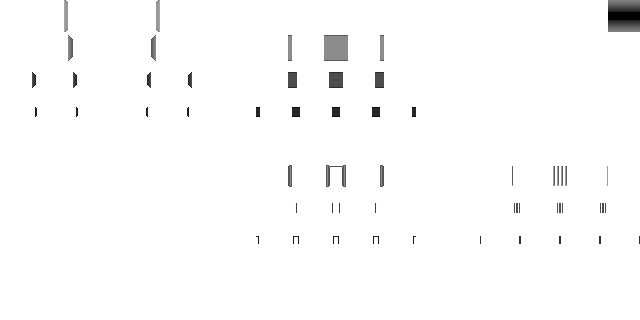
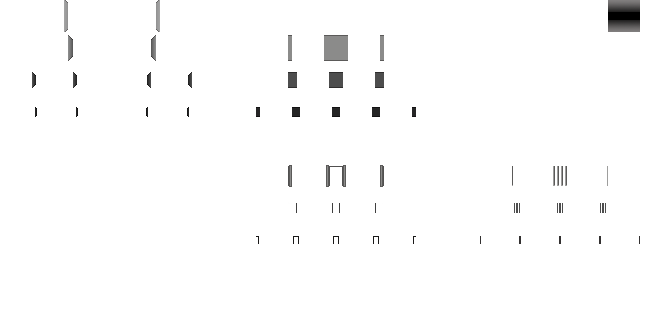
Doors fully working!

diff --git a/LowRezJam/app.js b/LowRezJam/app.js
@@ -29,8 +29,13 @@ var LowRezJam;
             crawlergame.cursor.y = Math.floor(this.game.input.mousePointer.y / (crawlergame.game.width / 32)) * (crawlergame.game.width / 32);
             crawlergame.cursor.z = -9999;
 
+            for (var d = 0; d < crawlergame.dungeon.Doors.length; d++) {
+                crawlergame.dungeon.Doors[d].Update(time);
+            }
+
             for (var i = 0; i < crawlergame.images.length; i++) {
                 crawlergame.images[i].frame = LowRezJam.Helper.getFrame(this.game, 0, 0);
+                crawlergame.images[i].scale.set(crawlergame.game.width / 32);
                 crawlergame.images[i].crop(new Phaser.Rectangle(0, 0, 32, 32));
             }
 
@@ -64,8 +69,11 @@ var LowRezJam;
                             crawlergame.images[imageNum].frame = LowRezJam.Helper.getFrame(this.game, 10 - l, f + 4);
                             imageNum++;
                             for (var d = 0; d < crawlergame.dungeon.Doors.length; d++) {
-                                if (crawlergame.dungeon.Doors[d].Position.X == loc.X && crawlergame.dungeon.Doors[d].Position.Y == loc.Y && crawlergame.dungeon.Doors[d].Open == false) {
-                                    crawlergame.images[imageNum].frame = LowRezJam.Helper.getFrame(this.game, 17 - l, f + 4);
+                                if (crawlergame.dungeon.Doors[d].Position.X == loc.X && crawlergame.dungeon.Doors[d].Position.Y == loc.Y) {
+                                    //crawlergame.images[imageNum].frame = Helper.getFrame(this.game, 17 - l, f + 4);
+                                    crawlergame.images[imageNum].crop(new Phaser.Rectangle((17 - l) * 32, (f + 4) * 32, 32, 32 - crawlergame.dungeon.Doors[d].OpenAmount));
+
+                                    //crawlergame.images[imageNum].crop(new Phaser.Rectangle(0, 0, 32, 32 - crawlergame.dungeon.Doors[d].OpenAmount));
                                     imageNum++;
                                 }
                             }
@@ -89,8 +97,11 @@ var LowRezJam;
                             crawlergame.images[imageNum].frame = LowRezJam.Helper.getFrame(this.game, 10 + l, f + 4);
                             imageNum++;
                             for (var d = 0; d < crawlergame.dungeon.Doors.length; d++) {
-                                if (crawlergame.dungeon.Doors[d].Position.X == loc.X && crawlergame.dungeon.Doors[d].Position.Y == loc.Y && crawlergame.dungeon.Doors[d].Open == false) {
-                                    crawlergame.images[imageNum].frame = LowRezJam.Helper.getFrame(this.game, 17 + l, f + 4);
+                                if (crawlergame.dungeon.Doors[d].Position.X == loc.X && crawlergame.dungeon.Doors[d].Position.Y == loc.Y) {
+                                    //crawlergame.images[imageNum].frame = Helper.getFrame(this.game, 17 + l, f + 4);
+                                    crawlergame.images[imageNum].crop(new Phaser.Rectangle((17 + l) * 32, (f + 4) * 32, 32, 32 - crawlergame.dungeon.Doors[d].OpenAmount));
+
+                                    //crawlergame.images[imageNum].scale.set(crawlergame.game.width / 32, Math.floor(crawlergame.game.width / (32 + crawlergame.dungeon.Doors[d].OpenAmount*2)));
                                     imageNum++;
                                 }
                             }
@@ -132,6 +143,18 @@ var LowRezJam;
         };
 
         CrawlerGame.prototype.mouseDown = function (event) {
+            var clickPoint = new LowRezJam.Point(crawlergame.cursor.x / (crawlergame.game.width / 32), crawlergame.cursor.y / (crawlergame.game.width / 32));
+            for (var f = 1; f <= 3; f++) {
+                var l = 0;
+                var loc = new LowRezJam.Point(crawlergame.hero.Position.X + ((f * crawlergame.hero.Forward.X) + (l * crawlergame.hero.Left.X)), crawlergame.hero.Position.Y + ((f * crawlergame.hero.Forward.Y) + (l * crawlergame.hero.Left.Y)));
+
+                if (f == 1) {
+                    for (var d = 0; d < crawlergame.dungeon.Doors.length; d++) {
+                        if (crawlergame.dungeon.Doors[d].Position.X == loc.X && crawlergame.dungeon.Doors[d].Position.Y == loc.Y)
+                            crawlergame.dungeon.Doors[d].Clicked(clickPoint);
+                    }
+                }
+            }
         };
 
         CrawlerGame.prototype.Generate = function () {

diff --git a/LowRezJam/app.ts b/LowRezJam/app.ts
@@ -48,8 +48,15 @@ module LowRezJam {
             crawlergame.cursor.y = Math.floor(this.game.input.mousePointer.y / (crawlergame.game.width / 32)) * (crawlergame.game.width / 32);
             crawlergame.cursor.z = -9999;
 
+            // Update doors
+            for (var d = 0; d < crawlergame.dungeon.Doors.length; d++) {
+                crawlergame.dungeon.Doors[d].Update(time);
+            }
+
+            // Set up images
             for (var i = 0; i < crawlergame.images.length; i++) {
                 crawlergame.images[i].frame = LowRezJam.Helper.getFrame(this.game, 0, 0);
+                crawlergame.images[i].scale.set(crawlergame.game.width / 32);
                 crawlergame.images[i].crop(new Phaser.Rectangle(0, 0, 32, 32));
             }
 
@@ -84,8 +91,10 @@ module LowRezJam {
                             crawlergame.images[imageNum].frame = Helper.getFrame(this.game, 10 - l, f + 4);
                             imageNum++;
                             for (var d = 0;d<crawlergame.dungeon.Doors.length;d++) {
-                                if (crawlergame.dungeon.Doors[d].Position.X == loc.X && crawlergame.dungeon.Doors[d].Position.Y == loc.Y && crawlergame.dungeon.Doors[d].Open == false) {
-                                    crawlergame.images[imageNum].frame = Helper.getFrame(this.game, 17 - l, f + 4);
+                                if (crawlergame.dungeon.Doors[d].Position.X == loc.X && crawlergame.dungeon.Doors[d].Position.Y == loc.Y) {
+                                    //crawlergame.images[imageNum].frame = Helper.getFrame(this.game, 17 - l, f + 4);
+                                    crawlergame.images[imageNum].crop(new Phaser.Rectangle((17 - l) * 32, (f + 4) * 32, 32, 32 - crawlergame.dungeon.Doors[d].OpenAmount));
+                                   //crawlergame.images[imageNum].crop(new Phaser.Rectangle(0, 0, 32, 32 - crawlergame.dungeon.Doors[d].OpenAmount));
                                     imageNum++;
                                 }
                             }
@@ -111,8 +120,10 @@ module LowRezJam {
                             crawlergame.images[imageNum].frame = Helper.getFrame(this.game, 10 + l, f + 4);
                             imageNum++;
                             for (var d = 0; d < crawlergame.dungeon.Doors.length; d++) {
-                                if (crawlergame.dungeon.Doors[d].Position.X == loc.X && crawlergame.dungeon.Doors[d].Position.Y == loc.Y && crawlergame.dungeon.Doors[d].Open == false) {
-                                    crawlergame.images[imageNum].frame = Helper.getFrame(this.game, 17 + l, f + 4);
+                                if (crawlergame.dungeon.Doors[d].Position.X == loc.X && crawlergame.dungeon.Doors[d].Position.Y == loc.Y) {
+                                    //crawlergame.images[imageNum].frame = Helper.getFrame(this.game, 17 + l, f + 4);
+                                    crawlergame.images[imageNum].crop(new Phaser.Rectangle((17+l)*32, (f+4)*32, 32, 32 - crawlergame.dungeon.Doors[d].OpenAmount));
+                                    //crawlergame.images[imageNum].scale.set(crawlergame.game.width / 32, Math.floor(crawlergame.game.width / (32 + crawlergame.dungeon.Doors[d].OpenAmount*2)));
                                     imageNum++;
                                 }
                             }
@@ -156,7 +167,19 @@ module LowRezJam {
         }
 
         mouseDown(event) {
-            
+            var clickPoint = new Point(crawlergame.cursor.x / (crawlergame.game.width / 32), crawlergame.cursor.y / (crawlergame.game.width / 32));
+            for (var f = 1; f <= 3; f++) {
+                var l = 0;
+                var loc = new Point(crawlergame.hero.Position.X + ((f * crawlergame.hero.Forward.X) + (l * crawlergame.hero.Left.X)),
+                    crawlergame.hero.Position.Y + ((f * crawlergame.hero.Forward.Y) + (l * crawlergame.hero.Left.Y)));
+
+                if (f == 1) {
+                    for (var d = 0; d < crawlergame.dungeon.Doors.length; d++) {
+                        if (crawlergame.dungeon.Doors[d].Position.X == loc.X && crawlergame.dungeon.Doors[d].Position.Y == loc.Y)
+                            crawlergame.dungeon.Doors[d].Clicked(clickPoint);
+                    }
+                }
+            }
         }
 
         public Generate() {

diff --git a/LowRezJam/dungeon.js b/LowRezJam/dungeon.js
@@ -97,9 +97,22 @@
             }
 
             for (var i = 0; i < this.possibleDoorLocations.length; i++) {
-                if (this.rnd.integerInRange(0, 5) == 0) {
-                    this.Tiles[this.possibleDoorLocations[i].Y][this.possibleDoorLocations[i].X] = 3;
-                    this.Doors.push(new LowRezJam.Door(new LowRezJam.Point(this.possibleDoorLocations[i].X, this.possibleDoorLocations[i].Y)));
+                if (this.rnd.integerInRange(0, 4) == 0) {
+                    // Need to check surrounding tiles for walls as they may have changed since adding possible location
+                    // Two walls is number we're looking for!
+                    var count = 0;
+                    if (this.Tiles[this.possibleDoorLocations[i].Y - 1][this.possibleDoorLocations[i].X] == 2)
+                        count++;
+                    if (this.Tiles[this.possibleDoorLocations[i].Y + 1][this.possibleDoorLocations[i].X] == 2)
+                        count++;
+                    if (this.Tiles[this.possibleDoorLocations[i].Y][this.possibleDoorLocations[i].X - 1] == 2)
+                        count++;
+                    if (this.Tiles[this.possibleDoorLocations[i].Y][this.possibleDoorLocations[i].X + 1] == 2)
+                        count++;
+                    if (count == 2) {
+                        this.Tiles[this.possibleDoorLocations[i].Y][this.possibleDoorLocations[i].X] = 3;
+                        this.Doors.push(new LowRezJam.Door(new LowRezJam.Point(this.possibleDoorLocations[i].X, this.possibleDoorLocations[i].Y)));
+                    }
                 }
             }
 

diff --git a/LowRezJam/dungeon.ts b/LowRezJam/dungeon.ts
@@ -117,10 +117,20 @@
                 }
             }
 
+            // Make doors
             for (var i = 0; i < this.possibleDoorLocations.length; i++) {
-                if (this.rnd.integerInRange(0, 5) == 0) {
-                    this.Tiles[this.possibleDoorLocations[i].Y][this.possibleDoorLocations[i].X] = 3;
-                    this.Doors.push(new Door(new Point(this.possibleDoorLocations[i].X, this.possibleDoorLocations[i].Y)));
+                if (this.rnd.integerInRange(0, 4) == 0) {
+                    // Need to check surrounding tiles for walls as they may have changed since adding possible location
+                    // Two walls is number we're looking for!
+                    var count = 0;
+                    if (this.Tiles[this.possibleDoorLocations[i].Y - 1][this.possibleDoorLocations[i].X] == 2) count++;
+                    if (this.Tiles[this.possibleDoorLocations[i].Y + 1][this.possibleDoorLocations[i].X] == 2) count++;
+                    if (this.Tiles[this.possibleDoorLocations[i].Y][this.possibleDoorLocations[i].X - 1] == 2) count++;
+                    if (this.Tiles[this.possibleDoorLocations[i].Y][this.possibleDoorLocations[i].X + 1] == 2) count++;
+                    if (count == 2) {
+                        this.Tiles[this.possibleDoorLocations[i].Y][this.possibleDoorLocations[i].X] = 3;
+                        this.Doors.push(new Door(new Point(this.possibleDoorLocations[i].X, this.possibleDoorLocations[i].Y)));
+                    }
                 }
             }
 

diff --git a/LowRezJam/door.js b/LowRezJam/door.js
@@ -2,10 +2,42 @@
 (function (LowRezJam) {
     var Door = (function () {
         function Door(pos) {
+            this.opening = false;
+            this.closing = false;
             this.Position = pos;
             this.Open = false;
             this.OpenAmount = 0;
         }
+        Door.prototype.Update = function (time) {
+            if (this.opening) {
+                if (this.OpenAmount < 31)
+                    this.OpenAmount++;
+                else {
+                    this.Open = true;
+                    this.opening = false;
+                }
+            }
+
+            if (this.closing) {
+                if (this.OpenAmount > 0)
+                    this.OpenAmount--;
+                else {
+                    this.Open = false;
+                    this.closing = false;
+                }
+            }
+        };
+
+        Door.prototype.Clicked = function (pos) {
+            if (this.opening || this.closing)
+                return;
+
+            if (this.Open) {
+                this.closing = true;
+                this.Open = false;
+            } else
+                this.opening = true;
+        };
         return Door;
     })();
     LowRezJam.Door = Door;

diff --git a/LowRezJam/door.ts b/LowRezJam/door.ts
@@ -4,10 +4,41 @@
          public Open: boolean;
          public OpenAmount: number;
 
+         private opening = false;
+         private closing = false;
+
          constructor(pos: Point) {
              this.Position = pos;
              this.Open = false;
              this.OpenAmount = 0;
+         }
+
+         public Update(time) {
+             if (this.opening) {
+                 if (this.OpenAmount < 31) this.OpenAmount++;
+                 else {
+                     this.Open = true;
+                     this.opening = false;
+                 }
+             }
+
+             if (this.closing) {
+                 if (this.OpenAmount > 0) this.OpenAmount--;
+                 else {
+                     this.Open = false;
+                     this.closing = false;
+                 }
+             }
+         }
+
+         public Clicked(pos: Point) {
+             if (this.opening || this.closing) return;
+
+             if (this.Open) {
+                 this.closing = true;
+                 this.Open = false;
+             }
+             else this.opening = true;
          }
      }
  }

diff --git a/LowRezJam/hero.ts b/LowRezJam/hero.ts
@@ -41,8 +41,15 @@
 
         private TryMove(l: number, f: number) {
             var loc = this.GetLoc(l, f);
+
             if (this.dungeon.Tiles[loc.Y][loc.X] == 1)
                 this.Position = loc;
+
+            if (this.dungeon.Tiles[loc.Y][loc.X] == 3)
+                for (var d = 0; d < crawlergame.dungeon.Doors.length; d++)
+                    if (crawlergame.dungeon.Doors[d].Position.X == loc.X && crawlergame.dungeon.Doors[d].Position.Y == loc.Y && crawlergame.dungeon.Doors[d].Open)
+                        this.Position = loc;
+                        
         }
 
         private DoTurn(dir: number) {

diff --git a/LowRezJam/hero.js b/LowRezJam/hero.js
@@ -35,8 +35,14 @@
 
         Hero.prototype.TryMove = function (l, f) {
             var loc = this.GetLoc(l, f);
+
             if (this.dungeon.Tiles[loc.Y][loc.X] == 1)
                 this.Position = loc;
+
+            if (this.dungeon.Tiles[loc.Y][loc.X] == 3)
+                for (var d = 0; d < crawlergame.dungeon.Doors.length; d++)
+                    if (crawlergame.dungeon.Doors[d].Position.X == loc.X && crawlergame.dungeon.Doors[d].Position.Y == loc.Y && crawlergame.dungeon.Doors[d].Open)
+                        this.Position = loc;
         };
 
         Hero.prototype.DoTurn = function (dir) {

diff --git a/LowRezJam/helper.js b/LowRezJam/helper.js
@@ -4,7 +4,7 @@
         function Helper() {
         }
         Helper.getFrame = function (game, x, y) {
-            return (20 * y) + x;
+            return (21 * y) + x;
         };
         return Helper;
     })();

diff --git a/LowRezJam/helper.ts b/LowRezJam/helper.ts
@@ -2,7 +2,7 @@
     export class Helper {
 
         public static getFrame(game: Phaser.Game, x: number, y: number) {
-            return (20*y) + x;
+            return (21*y) + x;
         }
 
     }
